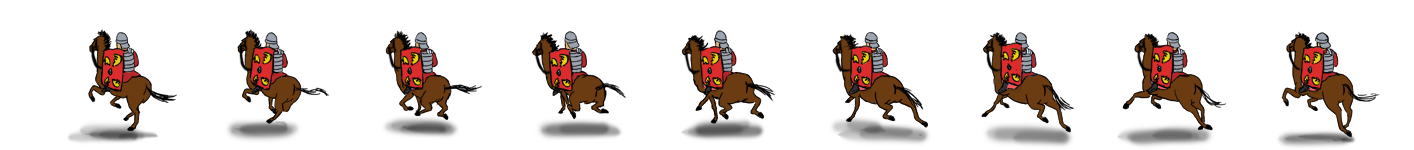
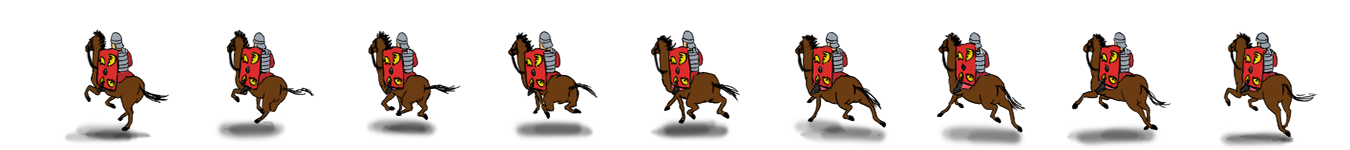
added new mounted knight sprites

Changed region(s): [[0.3733, 0.4, 0.4044, 0.4533], [0.8089, 0.3733, 0.84, 0.4]]

diff --git a/js/resources.js b/js/resources.js
@@ -86,14 +86,14 @@ resources = [
      src: "data/img/buildings/church/user_church.png"},
 	{name: "comp1_church", type: "image",
      src: "data/img/buildings/church/comp1_church.png"},
-	 
+	
 	{name: "neutral_castle", type: "image",
      src: "data/img/buildings/castle/neutral_castle.png"},
 	{name: "user_castle", type: "image",
      src: "data/img/buildings/castle/user_castle.png"},
 	{name: "comp1_castle", type: "image",
      src: "data/img/buildings/castle/comp1_castle.png"},
-
+	
     {name: "building_selection", type: "image",
      src: "data/img/buildings/building_selection.png"},
 	{name: "enemy_building_selection", type: "image",
@@ -182,7 +182,7 @@ resources = [
      src: "data/img/armies/animations/monk/comp1_monk_downleft_0.png"},
 	{name: "comp1_monk_downright_0", type: "image",
      src: "data/img/armies/animations/monk/comp1_monk_downright_0.png"},
-	 
+	
 	{name: "user_mounted_knight_topleft_0", type: "image",
      src: "data/img/armies/animations/mounted_knight/user_mounted_knight_topleft_0.png"},
 	{name: "user_mounted_knight_topright_0", type: "image",
@@ -200,7 +200,7 @@ resources = [
      src: "data/img/armies/animations/mounted_knight/comp1_mounted_knight_downleft_0.png"},
 	{name: "comp1_mounted_knight_downright_0", type: "image",
      src: "data/img/armies/animations/mounted_knight/comp1_mounted_knight_downright_0.png"},
-
+	
     {name: "battle_animation", type: "image",
      src: "data/img/armies/animations/battle_animation.png"},
 	 
@@ -236,7 +236,7 @@ resources = [
 
     {name: "halo", type: "image",
      src: "data/img/armies/halo.png"},
-
+	
     // Scenery tilesets
 	{name: "trees", type: "image",
      src: "data/img/scenery/trees.png"},
@@ -258,19 +258,19 @@ resources = [
      src: "data/img/scenery/smalltrees.png"},
     {name: "stones", type: "image",
       src: "data/img/scenery/stones.png"},
-     {name: "trees", type: "image",
+    {name: "trees", type: "image",
       src: "data/img/scenery/trees.png"},
-     {name: "willows", type: "image",
+    {name: "willows", type: "image",
       src: "data/img/scenery/willows.png"},
-	   {name: "mud", type: "image",
+	{name: "mud", type: "image",
       src: "data/img/scenery/mud.png"},
-	   {name: "fence", type: "image",
+	{name: "fence", type: "image",
       src: "data/img/scenery/fence.png"},
-	   {name: "smallbushes", type: "image",
+	{name: "smallbushes", type: "image",
       src: "data/img/scenery/smallbushes.png"},
-	     {name: "flowers", type: "image",
+	{name: "flowers", type: "image",
       src: "data/img/scenery/flowers.png"},
-	       {name: "leafs", type: "image",
+	{name: "leafs", type: "image",
       src: "data/img/scenery/leafs.png"},
 	
 	/* Maps. 
@@ -278,6 +278,7 @@ resources = [
 	 * {name: "example01", type: "tmx", src: "data/map/example01.tmx"},
 	 * {name: "example01", type: "tmx", src: "data/map/example01.json"},
  	 */
+	 
     {name: "level1", type: "tmx", src: "data/level/1.tmx"},
 	{name: "level2", type: "tmx", src: "data/level/2.tmx"},
 	{name: "level3", type: "tmx", src: "data/level/3.tmx"},

diff --git a/js/entities/squad.js b/js/entities/squad.js
@@ -47,24 +47,22 @@ Main.Squad = me.AnimationSheet.extend(
 		this.countText = new Main.TextObject(this.startPoint.x + this.textOffset.x, this.startPoint.y - this.textOffset.y, units.getValue(key)[0], Main.font );
 		me.game.add(this.countText, 60);
 		
-		
-		
 		this.parent(this.startPoint.x , this.startPoint.y, image, GetUnitSize(key));
-		var animationArray = this.getAnimationArray(image.width, GetUnitSize(key));
-		console.log(animationArray);
+		var length = image.width / GetUnitSize(key);
+		var animationArray = this.getAnimationArray(length);
 		this.addAnimation("walk", animationArray, UnitConfig(key, 0,
                           "animationSpeed"));
 		this.setCurrentAnimation("walk");
 
         this.halo = new Main.Image(0, 0, "halo");
 	},
-	
-	getAnimationArray: function(width, unitsSize)
+	// returns an array enumerating the values from 0 to (n - 1) 
+	getAnimationArray: function(n)
 	{
-		var length =  width / unitsSize;
+		
 		var array = [];
 		
-		for (var i = 0; i < length; i++)
+		for (var i = 0; i < n; i++)
 		{
 			array.push(i)
 		}

diff --git a/js/main.js b/js/main.js
@@ -28,18 +28,18 @@ var Main =
 				me.plugin.register.defer(debugPanel, "debug");
 			});
 		}
+		// Initialize the audio.
+		me.audio.init("ogg,mp3");
 
-        // Initialize the audio.
-        me.audio.init("ogg,mp3");
+		// Set a callback to run when loading is complete.
+		me.loader.onload = this.loaded.bind(this);
+	 
+		// Load the resources.
+		me.loader.preload(resources);
 
-        // Set a callback to run when loading is complete.
-        me.loader.onload = this.loaded.bind(this);
-     
-        // Load the resources.
-        me.loader.preload(resources);
-
-        // Initialize melonJS and display a loading screen.
-        me.state.change(me.state.LOADING);
+		// Initialize melonJS and display a loading screen.
+		me.state.change(me.state.LOADING);
+		
     },
 
     // Run on game resources loaded.

diff --git a/js/unit_config.js b/js/unit_config.js
@@ -101,7 +101,7 @@ _UnitConfig =
             attack: 36,
             defense: 22,
             speed: 10,
-			animationSpeed: 100,
+			animationSpeed: 60,
            
         },
         {
